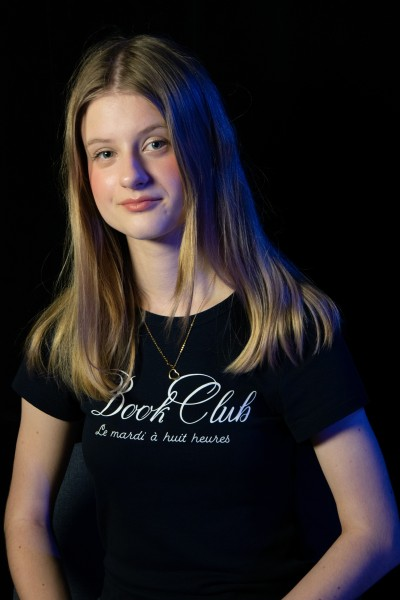
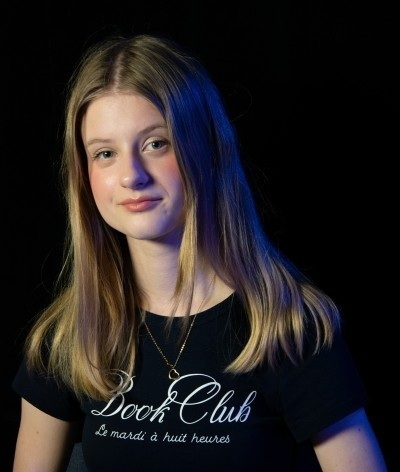
Add files via upload

diff --git a/index.html b/index.html
@@ -409,7 +409,7 @@
                                 <div class="min-w-0 flex-1"><h4 class="font-bold truncate">Agnieszka</h4><p class="text-xs text-radio-neon truncate">"Podium"</p></div>
                             </div>
                             <div class="glass-panel p-3 flex gap-4 rounded-xl items-center hover:bg-slate-800/50 transition">
-                                <div class="w-12 h-12 shrink-0 rounded-lg bg-fuchsia-500/20 flex items-center justify-center text-fuchsia-300 font-bold text-xl border border-fuchsia-500/30">O</div>
+                                <img src="ola-zdunek2 (Niestandardowe).jpg" alt="Ola Zdunek" class="w-12 h-12 shrink-0 rounded-lg object-cover border border-fuchsia-500/30">
                                 <div class="min-w-0 flex-1"><h4 class="font-bold truncate">Ola Zdunek</h4><p class="text-xs text-radio-neon truncate">"Studium Przypadku"</p></div>
                             </div>
                             <div class="glass-panel p-3 flex gap-4 rounded-xl items-center hover:bg-slate-800/50 transition">
@@ -745,8 +745,24 @@
             const checkDate = new Date(dateObj);
             checkDate.setHours(0,0,0,0);
 
-            // Blokada renderowania jakichkolwiek zaplanowanych audycji od 15 Czerwca 2026 włącznie.
+            // Blokada renderowania wiosennych zaplanowanych audycji od 15 Czerwca 2026 włącznie.
+            // Z wyjątkiem nowej letniej ramówki od 24 lipca 2026
+            const summerFridayStart = new Date(2026, 6, 24);
             if (checkDate >= endOfScheduleDate) {
+                if (checkDate >= summerFridayStart && dateObj.getDay() === 5) {
+                    const diffDays = Math.round((checkDate.getTime() - summerFridayStart.getTime()) / (1000 * 60 * 60 * 24));
+                    if (diffDays % 14 === 0) {
+                        return [
+                            { time: "15:55", title: "Wejście na Antenę", presenter: "" },
+                            { time: "16:00", title: "Fala Z", presenter: "Dawid Gruszka" },
+                            { time: "16:45", title: "Głos Azji", presenter: "Weronika Kosobudzka" },
+                            { time: "17:45", title: "Kakofonia", presenter: "Kacper Augustyniak" },
+                            { time: "18:30", title: "Blaszak", presenter: "Lauri Potocki" },
+                            { time: "20:00", title: "Dźwięki subiektywne", presenter: "Monika" },
+                            { time: "21:00", title: "Zejście z Anteny", presenter: "" }
+                        ];
+                    }
+                }
                 return null;
             }
 
@@ -1094,9 +1110,9 @@
             let currentDate = getNow(); 
             currentDate.setDate(1); 
             
-            // Jeśli wizyta następuje po zakończeniu ramówki, odsyłamy domyślnie kalendarz do czerwca 2026
-            if (getNow() >= endOfScheduleDate) {
-                currentDate = new Date(2026, 5, 1);
+            // Jeśli wizyta następuje po zakończeniu wiosennej ramówki, przesuń na odpowiedni miesiąc
+            if (getNow() >= endOfScheduleDate && getNow() < new Date(2026, 6, 24)) {
+                currentDate = new Date(2026, 6, 1); // Pokaż lipiec, bo tam startuje letnia ramówka
             }
 
             let selectedDate = getClosestBroadcastDate(getNow()); 
@@ -1115,9 +1131,25 @@
                     current.setHours(0,0,0,0);
                 }
 
-                // Zatrzymujemy domyślną selekcję na ostatnim aktywnym tygodniu ramówki
-                if (current >= endOfScheduleDate) {
-                    return new Date(2026, 5, 11); // 11 czerwca 2026 (czwartek)
+                const summerFridayStart = new Date(2026, 6, 24);
+                
+                // Jeśli jesteśmy w wakacyjnej przerwie, skocz od razu do pierwszej letniej audycji
+                if (current >= endOfScheduleDate && current < summerFridayStart) {
+                    return new Date(summerFridayStart);
+                }
+
+                // Szukanie w trakcie letniej ramówki
+                if (current >= summerFridayStart) {
+                    let testDate = new Date(current);
+                    for(let i = 0; i < 14; i++) { // Szukaj do 2 tygodni do przodu
+                        if (testDate.getDay() === 5) {
+                            const diffDays = Math.round((testDate - summerFridayStart) / 86400000);
+                            if (diffDays >= 0 && diffDays % 14 === 0) {
+                                return new Date(testDate);
+                            }
+                        }
+                        testDate.setDate(testDate.getDate() + 1);
+                    }
                 }
 
                 for(let i = 0; i < 7; i++) {
@@ -1133,7 +1165,7 @@
                         }
                     }
                 }
-                return current;
+                return current < endOfScheduleDate ? current : new Date(2026, 5, 11);
             }
 
             document.getElementById('prev-month').addEventListener('click', () => {
@@ -1181,9 +1213,18 @@
                         isBroadcastDay = false;
                     }
 
-                    // Zablokuj renderowanie ramówki od daty końcowej
+                    const summerFridayStart = new Date(2026, 6, 24);
+
+                    // Zablokuj renderowanie ramówki od daty końcowej, uwzględniając letnie piątki
                     if (dateObj >= minAllowedDate && dateObj < endOfScheduleDate) {
                         weekHasAllowedDays = true;
+                    } else if (dateObj >= summerFridayStart && dayOfWeek === 5) {
+                        const diffDays = Math.round((dateObj - summerFridayStart) / 86400000);
+                        if (diffDays % 14 === 0) {
+                            weekHasAllowedDays = true;
+                        } else {
+                            isBroadcastDay = false;
+                        }
                     } else {
                         isBroadcastDay = false;
                     }
